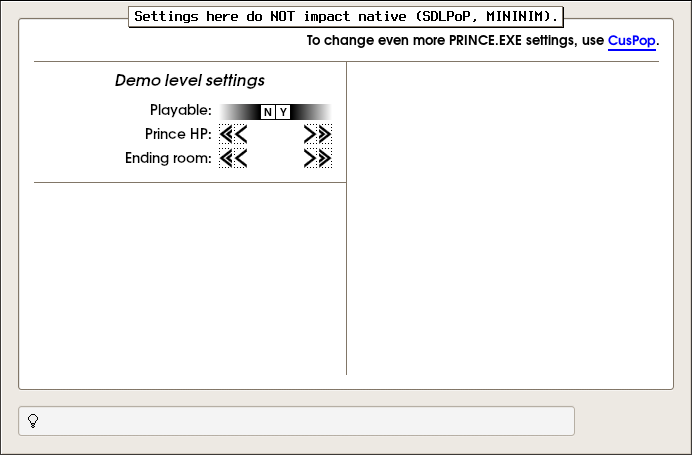
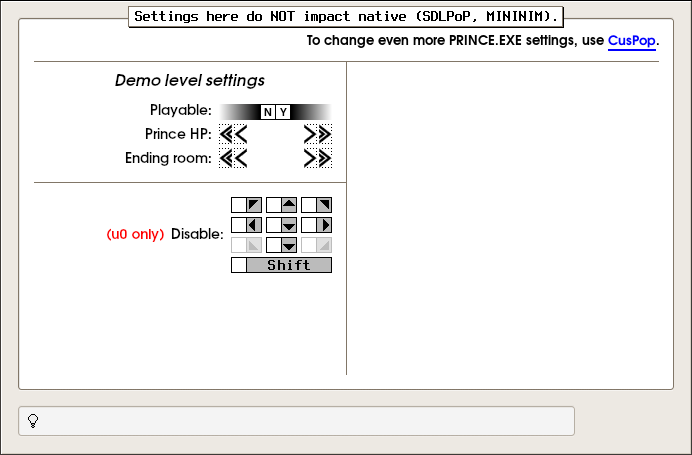
Version 3.13.

Changed region(s): [[0.1517, 0.4308, 0.4855, 0.6154]]

diff --git a/src/apoplexy.c b/src/apoplexy.c
@@ -1,5 +1,5 @@
 /* SPDX-License-Identifier: GPL-3.0-or-later */
-/* apoplexy v3.12 (January 2021)
+/* apoplexy v3.13 (February 2021)
  * Copyright (C) 2008-2021 The apoplexy Team (see credits.txt)
  *
  * This program is free software: you can redistribute it and/or modify it
@@ -56,9 +56,9 @@
 #define WINDOW_WIDTH 642 + 50
 #define WINDOW_HEIGHT 380 + 75
 #define EDITOR_NAME "apoplexy"
-#define EDITOR_VERSION "v3.12 (January 2021)"
+#define EDITOR_VERSION "v3.13 (February 2021)"
 #define EDITOR_VERSION_MAJOR 3
-#define EDITOR_VERSION_MINOR 12
+#define EDITOR_VERSION_MINOR 13
 #define EDITOR_VERSION_PATCH 0
 #define COPYRIGHT "Copyright (C) 2021 The apoplexy Team"
 #define COMPATIBLE_NATIVE "SDLPoP 1.21, MININIM 0.10"
@@ -855,6 +855,35 @@ int iEXEDemoPrinceHP;
 static const unsigned long arDemoEndingRoom[6] =
 	{ 0XB40, 0X21F0, 0XC25, 0X1365, 0XBE9, 0X1D19 };
 int iEXEDemoEndingRoom;
+/***/
+static const unsigned long arDisable2[6] =
+	{ 0X0, 0X2DD5, 0X0, 0X0, 0X0, 0X0 };
+int iEXEDisable2;
+static const unsigned long arDisable4[6] =
+	{ 0X0, 0X2DE1, 0X0, 0X0, 0X0, 0X0 };
+int iEXEDisable4;
+static const unsigned long arDisable5[6] =
+	{ 0X0, 0X2DCE, 0X0, 0X0, 0X0, 0X0 };
+int iEXEDisable5;
+static const unsigned long arDisable6[6] =
+	{ 0X0, 0X2DF6, 0X0, 0X0, 0X0, 0X0 };
+int iEXEDisable6;
+static const unsigned long arDisable7A[6] =
+	{ 0X0, 0X2DB9, 0X0, 0X0, 0X0, 0X0 };
+static const unsigned long arDisable7B[6] =
+	{ 0X0, 0X2DE8, 0X0, 0X0, 0X0, 0X0 };
+int iEXEDisable7;
+static const unsigned long arDisable8[6] =
+	{ 0X0, 0X2DB2, 0X0, 0X0, 0X0, 0X0 };
+int iEXEDisable8;
+static const unsigned long arDisable9A[6] =
+	{ 0X0, 0X2DC0, 0X0, 0X0, 0X0, 0X0 };
+static const unsigned long arDisable9B[6] =
+	{ 0X0, 0X2DFD, 0X0, 0X0, 0X0, 0X0 };
+int iEXEDisable9;
+static const unsigned long arDisableS[6] =
+	{ 0X0, 0X2E17, 0X0, 0X0, 0X0, 0X0 };
+int iEXEDisableS;
 
 /*** exe, PoP2 ***/
 static const int arDefaultEnvPoP2[29] =
@@ -26417,6 +26446,83 @@ void EXELoad_F4 (void)
 	ReadFromFile (iFdEXE, "", 1, sData);
 	iEXEDemoEndingRoom = BytesAsLU (sData, 1);
 
+	/*** Disable. ***/
+	if (iEXEType == 1)
+	{
+		LSeek (iFdEXE, arDisable2[iEXEType]);
+		ReadFromFile (iFdEXE, "", 1, sData);
+		switch (sData[0])
+		{
+			case 0xDC: iEXEDisable2 = 0; break;
+			case 0x8C: iEXEDisable2 = 1; break;
+			default: iEXEDisable2 = 0; break; /*** Fallback. ***/
+		}
+		LSeek (iFdEXE, arDisable4[iEXEType]);
+		ReadFromFile (iFdEXE, "", 1, sData);
+		switch (sData[0])
+		{
+			case 0xD7: iEXEDisable4 = 0; break;
+			case 0x8C: iEXEDisable4 = 1; break;
+			default: iEXEDisable4 = 0; break; /*** Fallback. ***/
+		}
+		LSeek (iFdEXE, arDisable5[iEXEType]);
+		ReadFromFile (iFdEXE, "", 1, sData);
+		switch (sData[0])
+		{
+			case 0xD8: iEXEDisable5 = 0; break;
+			case 0x8C: iEXEDisable5 = 1; break;
+			default: iEXEDisable5 = 0; break; /*** Fallback. ***/
+		}
+		LSeek (iFdEXE, arDisable6[iEXEType]);
+		ReadFromFile (iFdEXE, "", 1, sData);
+		switch (sData[0])
+		{
+			case 0xD9: iEXEDisable6 = 0; break;
+			case 0x8C: iEXEDisable6 = 1; break;
+			default: iEXEDisable6 = 0; break; /*** Fallback. ***/
+		}
+		LSeek (iFdEXE, arDisable7A[iEXEType]);
+		ReadFromFile (iFdEXE, "", 1, sData);
+		LSeek (iFdEXE, arDisable7B[iEXEType]);
+		ReadFromFile (iFdEXE, "", 1, sData2);
+		if ((sData[0] == 0xD3) && (sData2[0] == 0xD3))
+		{
+			iEXEDisable7 = 0;
+		} else if ((sData[0] == 0x8C) && (sData2[0] == 0x8C)) {
+			iEXEDisable7 = 1;
+		} else {
+			iEXEDisable7 = 0; /*** Fallback. ***/
+		}
+		LSeek (iFdEXE, arDisable8[iEXEType]);
+		ReadFromFile (iFdEXE, "", 1, sData);
+		switch (sData[0])
+		{
+			case 0xD4: iEXEDisable8 = 0; break;
+			case 0x8C: iEXEDisable8 = 1; break;
+			default: iEXEDisable8 = 0; break; /*** Fallback. ***/
+		}
+		LSeek (iFdEXE, arDisable9A[iEXEType]);
+		ReadFromFile (iFdEXE, "", 1, sData);
+		LSeek (iFdEXE, arDisable9B[iEXEType]);
+		ReadFromFile (iFdEXE, "", 1, sData2);
+		if ((sData[0] == 0xD5) && (sData2[0] == 0xD5))
+		{
+			iEXEDisable9 = 0;
+		} else if ((sData[0] == 0x8C) && (sData2[0] == 0x8C)) {
+			iEXEDisable9 = 1;
+		} else {
+			iEXEDisable9 = 0; /*** Fallback. ***/
+		}
+		LSeek (iFdEXE, arDisableS[iEXEType]);
+		ReadFromFile (iFdEXE, "", 1, sData);
+		switch (sData[0])
+		{
+			case 0x03: iEXEDisableS = 0; break;
+			case 0x00: iEXEDisableS = 1; break;
+			default: iEXEDisableS = 0; break; /*** Fallback. ***/
+		}
+	}
+
 	close (iFdEXE);
 }
 /*****************************************************************************/
@@ -26917,6 +27023,78 @@ void EXESave_F4 (void)
 	LSeek (iFdEXE, arDemoEndingRoom[iEXEType]);
 	sBytes[0] = iEXEDemoEndingRoom;
 	WriteCharByChar (iFdEXE, sBytes, 1);
+
+	/*** Disable. ***/
+	if (iEXEType == 1)
+	{
+		switch (iEXEDisable2)
+		{
+			case 0: sBytes[0] = 0xDC; break;
+			case 1: sBytes[0] = 0x8C; break;
+		}
+		LSeek (iFdEXE, arDisable2[iEXEType]);
+		WriteCharByChar (iFdEXE, sBytes, 1);
+		/***/
+		switch (iEXEDisable4)
+		{
+			case 0: sBytes[0] = 0xD7; break;
+			case 1: sBytes[0] = 0x8C; break;
+		}
+		LSeek (iFdEXE, arDisable4[iEXEType]);
+		WriteCharByChar (iFdEXE, sBytes, 1);
+		/***/
+		switch (iEXEDisable5)
+		{
+			case 0: sBytes[0] = 0xD8; break;
+			case 1: sBytes[0] = 0x8C; break;
+		}
+		LSeek (iFdEXE, arDisable5[iEXEType]);
+		WriteCharByChar (iFdEXE, sBytes, 1);
+		/***/
+		switch (iEXEDisable6)
+		{
+			case 0: sBytes[0] = 0xD9; break;
+			case 1: sBytes[0] = 0x8C; break;
+		}
+		LSeek (iFdEXE, arDisable6[iEXEType]);
+		WriteCharByChar (iFdEXE, sBytes, 1);
+		/***/
+		switch (iEXEDisable7)
+		{
+			case 0: sBytes[0] = 0xD3; break;
+			case 1: sBytes[0] = 0x8C; break;
+		}
+		LSeek (iFdEXE, arDisable7A[iEXEType]);
+		WriteCharByChar (iFdEXE, sBytes, 1);
+		LSeek (iFdEXE, arDisable7B[iEXEType]);
+		WriteCharByChar (iFdEXE, sBytes, 1);
+		/***/
+		switch (iEXEDisable8)
+		{
+			case 0: sBytes[0] = 0xD4; break;
+			case 1: sBytes[0] = 0x8C; break;
+		}
+		LSeek (iFdEXE, arDisable8[iEXEType]);
+		WriteCharByChar (iFdEXE, sBytes, 1);
+		/***/
+		switch (iEXEDisable9)
+		{
+			case 0: sBytes[0] = 0xD5; break;
+			case 1: sBytes[0] = 0x8C; break;
+		}
+		LSeek (iFdEXE, arDisable9A[iEXEType]);
+		WriteCharByChar (iFdEXE, sBytes, 1);
+		LSeek (iFdEXE, arDisable9B[iEXEType]);
+		WriteCharByChar (iFdEXE, sBytes, 1);
+		/***/
+		switch (iEXEDisableS)
+		{
+			case 0: sBytes[0] = 0x03; break;
+			case 1: sBytes[0] = 0x00; break;
+		}
+		LSeek (iFdEXE, arDisableS[iEXEType]);
+		WriteCharByChar (iFdEXE, sBytes, 1);
+	}
 
 	close (iFdEXE);
 
@@ -29264,6 +29442,59 @@ void EXE_F4 (void)
 						PlusMinus (&iEXEDemoEndingRoom, 234, 148, 1, 24, -1, 0);
 						PlusMinus (&iEXEDemoEndingRoom, 304, 148, 1, 24, +1, 0);
 						PlusMinus (&iEXEDemoEndingRoom, 319, 148, 1, 24, +10, 0);
+
+						/*** Disable. ***/
+						if (iEXEType == 1)
+						{
+							if (InArea (267, 238, 267 + 14, 238 + 14) == 1)
+							{
+								if (iEXEDisable2 == 0)
+									{ iEXEDisable2 = 1; } else { iEXEDisable2 = 0; }
+								PlaySound ("wav/check_box.wav");
+							}
+							if (InArea (232, 218, 232 + 14, 218 + 14) == 1)
+							{
+								if (iEXEDisable4 == 0)
+									{ iEXEDisable4 = 1; } else { iEXEDisable4 = 0; }
+								PlaySound ("wav/check_box.wav");
+							}
+							if (InArea (267, 218, 267 + 14, 218 + 14) == 1)
+							{
+								if (iEXEDisable5 == 0)
+									{ iEXEDisable5 = 1; } else { iEXEDisable5 = 0; }
+								PlaySound ("wav/check_box.wav");
+							}
+							if (InArea (302, 218, 302 + 14, 218 + 14) == 1)
+							{
+								if (iEXEDisable6 == 0)
+									{ iEXEDisable6 = 1; } else { iEXEDisable6 = 0; }
+								PlaySound ("wav/check_box.wav");
+							}
+							if (InArea (232, 198, 232 + 14, 198 + 14) == 1)
+							{
+								if (iEXEDisable7 == 0)
+									{ iEXEDisable7 = 1; } else { iEXEDisable7 = 0; }
+								PlaySound ("wav/check_box.wav");
+							}
+							if (InArea (267, 198, 267 + 14, 198 + 14) == 1)
+							{
+								if (iEXEDisable8 == 0)
+									{ iEXEDisable8 = 1; } else { iEXEDisable8 = 0; }
+								PlaySound ("wav/check_box.wav");
+							}
+							if (InArea (302, 198, 302 + 14, 198 + 14) == 1)
+							{
+								if (iEXEDisable9 == 0)
+									{ iEXEDisable9 = 1; } else { iEXEDisable9 = 0; }
+								PlaySound ("wav/check_box.wav");
+							}
+							if (InArea (232, 258, 232 + 14, 258 + 14) == 1)
+							{
+								if (iEXEDisableS == 0)
+									{ iEXEDisableS = 1; } else { iEXEDisableS = 0; }
+								PlaySound ("wav/check_box.wav");
+							}
+						}
 					}
 					ShowEXE_F4(); break;
 				case SDL_WINDOWEVENT:
@@ -29344,6 +29575,51 @@ void ShowEXE_F4 (void)
 	/*** (Demo level) Ending room. ***/
 	if (iEXEDemoEndingRoom == 24) { clr = color_bl; } else { clr = color_blue; }
 	CenterNumber (ascreen, iEXEDemoEndingRoom, 247, 148, clr, color_wh, 0);
+
+	/*** Disable. ***/
+	if (iEXEType == 1)
+	{
+		if (iEXEDisable2 == 1)
+		{
+			ShowImageBasic (imgchkb, 267, 238, "imgchkb", ascreen, iScale, 1);
+			ShowImageBasic (imgsrs, 267, 238, "imgsrs", ascreen, iScale, 1);
+		}
+		if (iEXEDisable4 == 1)
+		{
+			ShowImageBasic (imgchkb, 232, 218, "imgchkb", ascreen, iScale, 1);
+			ShowImageBasic (imgsrs, 232, 218, "imgsrs", ascreen, iScale, 1);
+		}
+		if (iEXEDisable5 == 1)
+		{
+			ShowImageBasic (imgchkb, 267, 218, "imgchkb", ascreen, iScale, 1);
+			ShowImageBasic (imgsrs, 267, 218, "imgsrs", ascreen, iScale, 1);
+		}
+		if (iEXEDisable6 == 1)
+		{
+			ShowImageBasic (imgchkb, 302, 218, "imgchkb", ascreen, iScale, 1);
+			ShowImageBasic (imgsrs, 302, 218, "imgsrs", ascreen, iScale, 1);
+		}
+		if (iEXEDisable7 == 1)
+		{
+			ShowImageBasic (imgchkb, 232, 198, "imgchkb", ascreen, iScale, 1);
+			ShowImageBasic (imgsrs, 232, 198, "imgsrs", ascreen, iScale, 1);
+		}
+		if (iEXEDisable8 == 1)
+		{
+			ShowImageBasic (imgchkb, 267, 198, "imgchkb", ascreen, iScale, 1);
+			ShowImageBasic (imgsrs, 267, 198, "imgsrs", ascreen, iScale, 1);
+		}
+		if (iEXEDisable9 == 1)
+		{
+			ShowImageBasic (imgchkb, 302, 198, "imgchkb", ascreen, iScale, 1);
+			ShowImageBasic (imgsrs, 302, 198, "imgsrs", ascreen, iScale, 1);
+		}
+		if (iEXEDisableS == 1)
+		{
+			ShowImageBasic (imgchkb, 232, 258, "imgchkb", ascreen, iScale, 1);
+			ShowImageBasic (imgsrs, 232, 258, "imgsrs", ascreen, iScale, 1);
+		}
+	}
 
 	/*** refresh screen ***/
 	SDL_RenderPresent (ascreen);
@@ -39608,7 +39884,7 @@ int FixDir (int iDir)
 	 * on start, because he does something else (1 = fall, 13 = run).
 	 */
 
-	if (((int)luLevelNr == 1) || ((int)luLevelNr == 13))
+	if ((iEditPoP == 1) && (((int)luLevelNr == 1) || ((int)luLevelNr == 13)))
 	{
 		if (iDir == 0) { return (255); } else { return (0); }
 	} else { return (iDir); }
